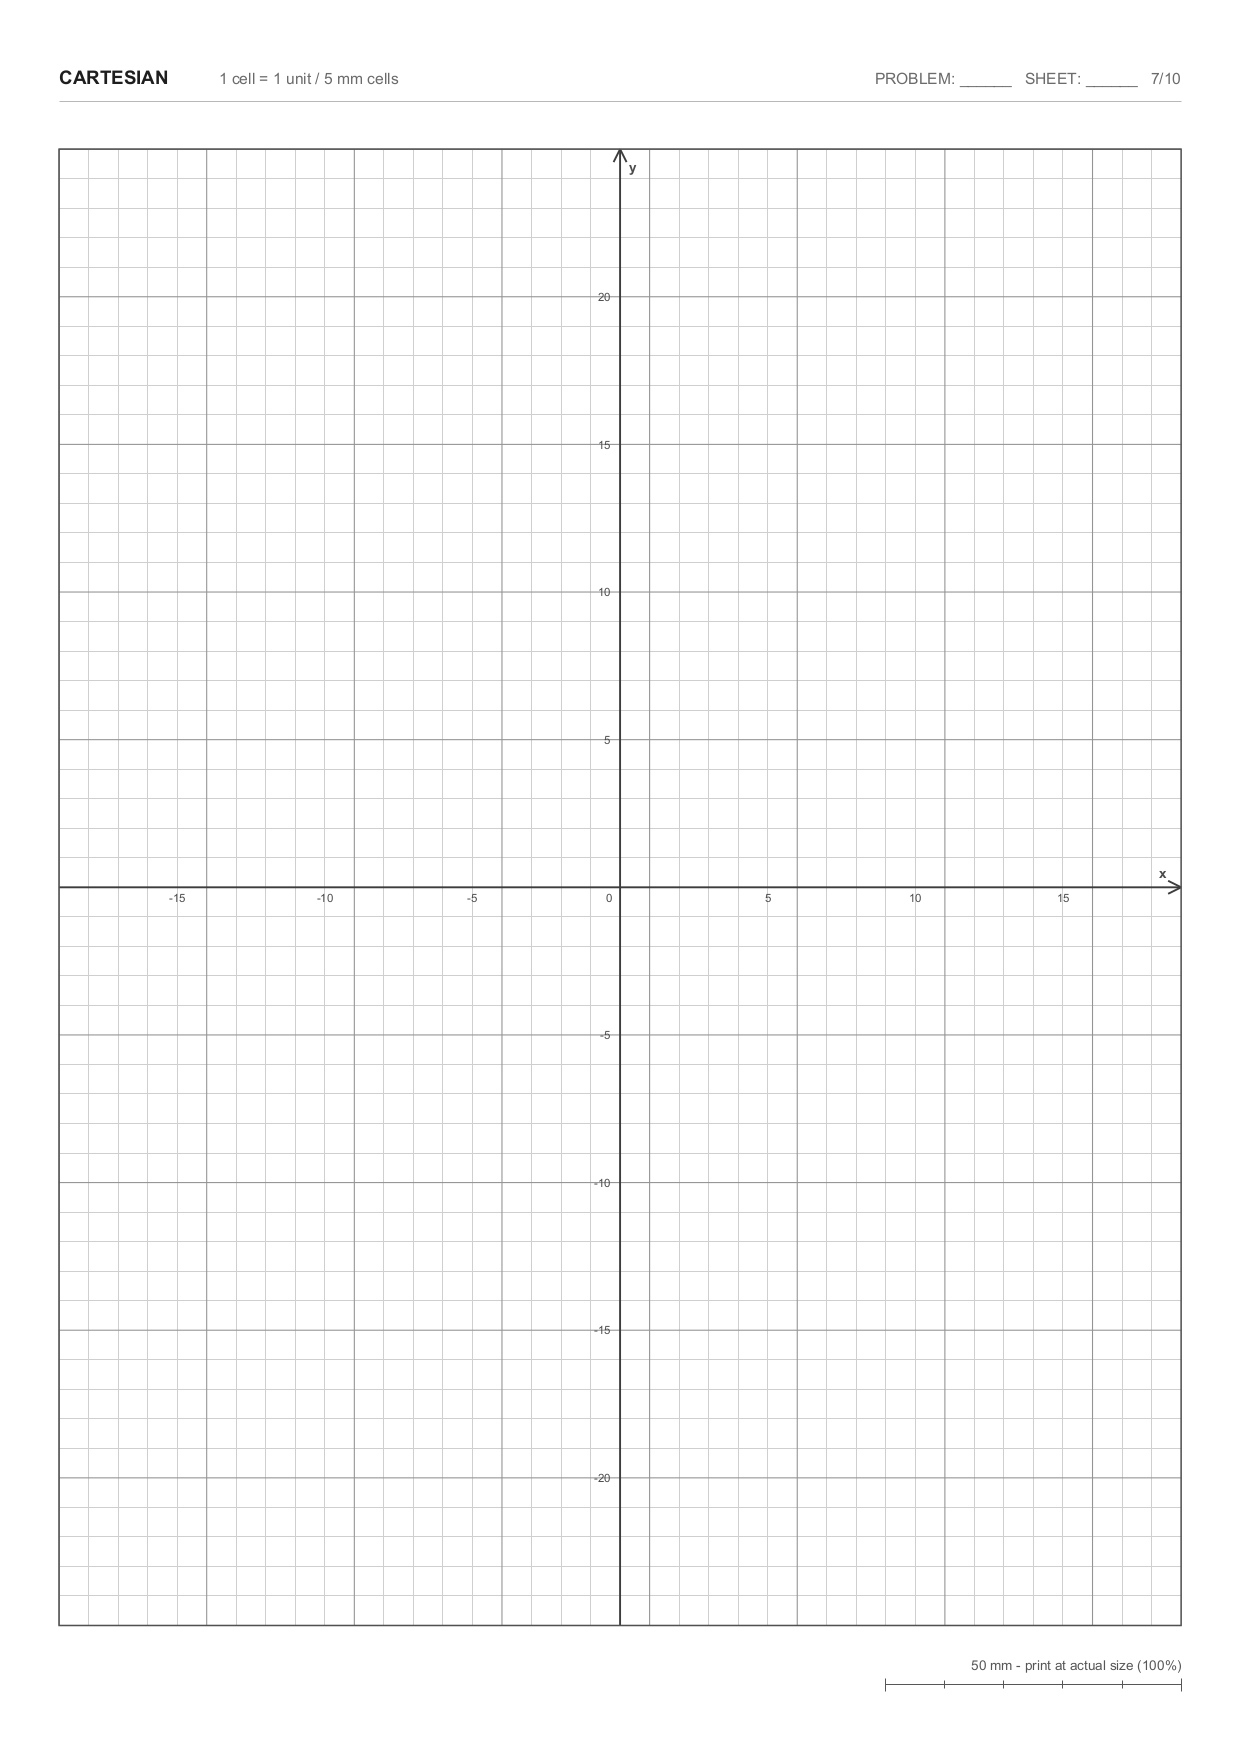
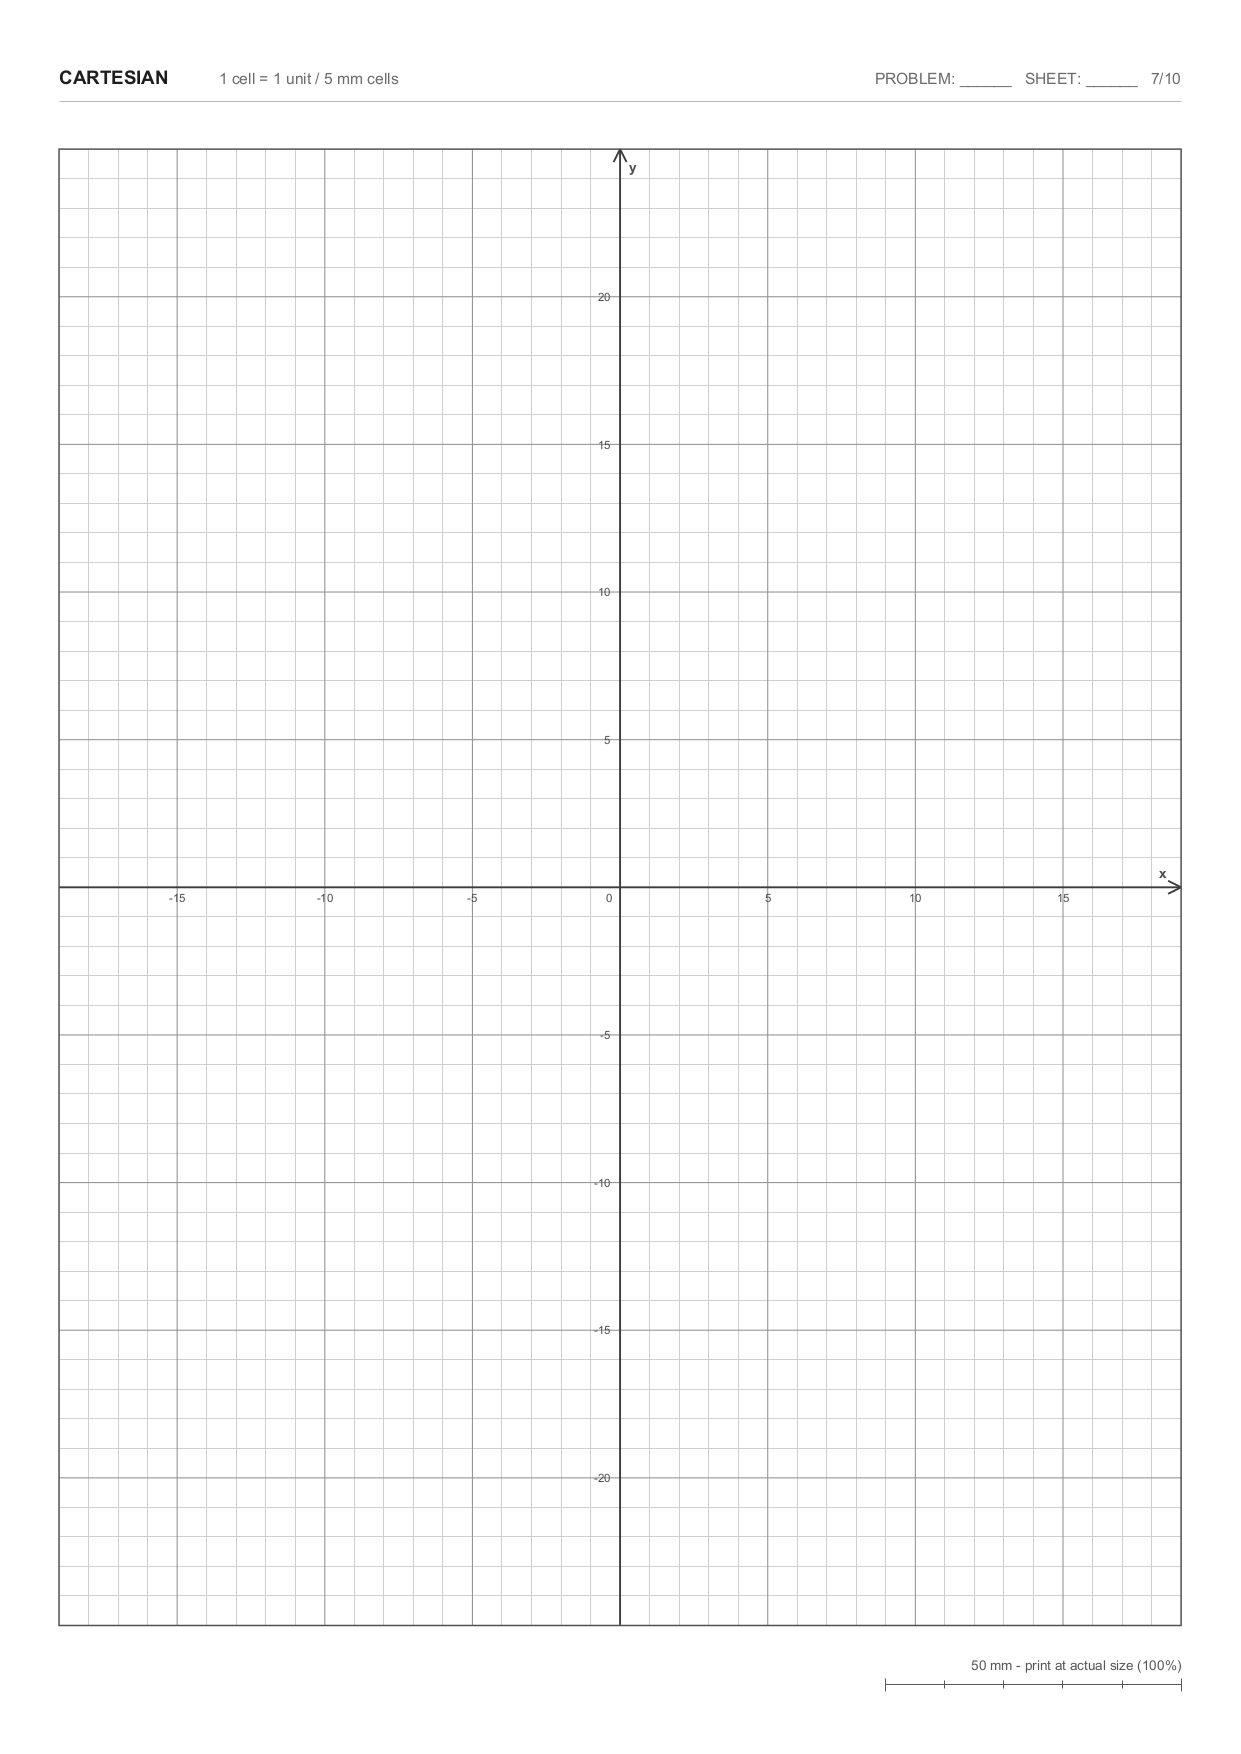
Align Cartesian guides with coordinate axes

Changed region(s): [[0.6124, 0.5234, 0.643, 0.9236], [0.6124, 0.0924, 0.643, 0.4926]]

diff --git a/printables/scratch-paper/generate_scratch_paper.py b/printables/scratch-paper/generate_scratch_paper.py
@@ -303,29 +303,35 @@ def draw_cartesian(pdf: canvas.Canvas) -> None:
     y0 = BOTTOM + ((TOP - BOTTOM) - rows * step) / 2
     x1 = x0 + columns * step
     y1 = y0 + rows * step
-    origin_x = x0 + (columns // 2) * step
-    origin_y = y0 + (rows // 2) * step
+    center_column = columns // 2
+    center_row = rows // 2
+    origin_x = x0 + center_column * step
+    origin_y = y0 + center_row * step
 
     pdf.saveState()
     pdf.setStrokeGray(0.81)
     pdf.setLineWidth(0.24)
-    for index in range(columns + 1):
-        if index % 5 and index != columns // 2:
+    for index in range(1, columns):
+        coordinate = index - center_column
+        if coordinate % 5:
             x = x0 + index * step
             pdf.line(x, y0, x, y1)
-    for index in range(rows + 1):
-        if index % 5 and index != rows // 2:
+    for index in range(1, rows):
+        coordinate = index - center_row
+        if coordinate % 5:
             y = y0 + index * step
             pdf.line(x0, y, x1, y)
 
     pdf.setStrokeGray(0.58)
     pdf.setLineWidth(0.52)
-    for index in range(0, columns + 1, 5):
-        if index != columns // 2:
+    for index in range(1, columns):
+        coordinate = index - center_column
+        if coordinate and coordinate % 5 == 0:
             x = x0 + index * step
             pdf.line(x, y0, x, y1)
-    for index in range(0, rows + 1, 5):
-        if index != rows // 2:
+    for index in range(1, rows):
+        coordinate = index - center_row
+        if coordinate and coordinate % 5 == 0:
             y = y0 + index * step
             pdf.line(x0, y, x1, y)
 
